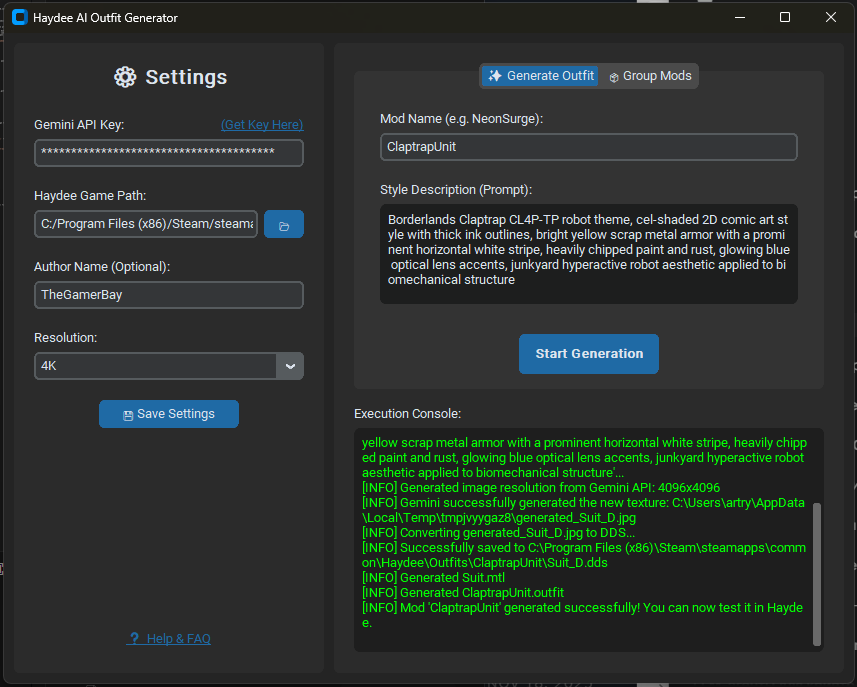
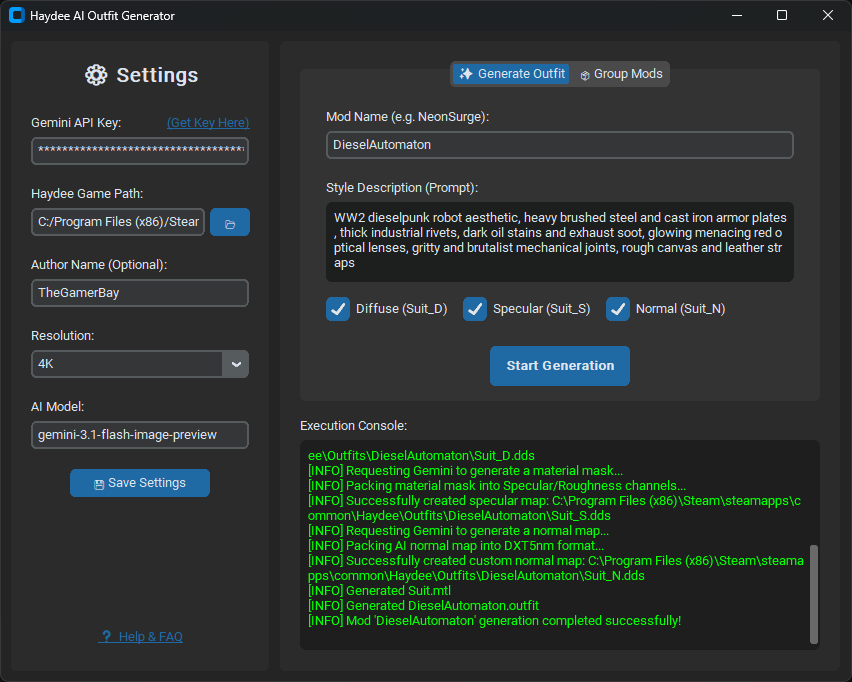
feat(app): enhance texture generation with new model support, custom normal/specular options, and UI improvements
- Add model name management to settings and default to `gemini-3.1-flash-image-preview`
- Introduce checkboxes for generating diffuse, specular, and normal maps
- Improve validation for generation with detailed error messages
- Handle API retries with configurable delays for robustness
- Update `google-genai` client with extended timeout via monkey patch
- Revise UI layout for better readability and functionality

diff --git a/src/app.py b/src/app.py
@@ -13,6 +13,17 @@ from haydee_outfit_gen.image_processor import ImageProcessor
 
 from src.config_manager import ConfigManager
 
+# Monkey-patch google-genai Client to increase the default timeout to 10 minutes (600,000 ms)
+from google import genai
+original_client_init = genai.Client.__init__
+def new_client_init(self, *args, **kwargs):
+    if 'http_options' not in kwargs:
+        kwargs['http_options'] = {'timeout': 600000}
+    original_client_init(self, *args, **kwargs)
+genai.Client.__init__ = new_client_init
+
+import time
+
 ctk.set_appearance_mode("Dark")
 ctk.set_default_color_theme("blue")
 
@@ -134,7 +145,12 @@ class HaydeeGUI(ctk.CTk):
         # Resolution
         ctk.CTkLabel(self.left_frame, text="Resolution:").pack(anchor="w", padx=20)
         self.combo_res = ctk.CTkComboBox(self.left_frame, values=["4K", "2K"])
-        self.combo_res.pack(fill="x", padx=20, pady=(0, 20))
+        self.combo_res.pack(fill="x", padx=20, pady=(0, 15))
+
+        # Model Name
+        ctk.CTkLabel(self.left_frame, text="AI Model:").pack(anchor="w", padx=20)
+        self.entry_model = ctk.CTkEntry(self.left_frame, placeholder_text="gemini-3.1-flash-image-preview")
+        self.entry_model.pack(fill="x", padx=20, pady=(0, 20))
 
         # Save Button
         self.btn_save = ctk.CTkButton(self.left_frame, text="💾 Save Settings", command=self._save_settings)
@@ -180,11 +196,26 @@ class HaydeeGUI(ctk.CTk):
         self.entry_mod_name.grid(row=1, column=0, sticky="ew", padx=20, pady=(0, 15))
 
         ctk.CTkLabel(self.tab_gen, text="Style Description (Prompt):").grid(row=2, column=0, sticky="w", padx=20)
-        self.textbox_style = ctk.CTkTextbox(self.tab_gen, height=100)
-        self.textbox_style.grid(row=3, column=0, sticky="ew", padx=20, pady=(0, 20))
+        self.textbox_style = ctk.CTkTextbox(self.tab_gen, height=80)
+        self.textbox_style.grid(row=3, column=0, sticky="ew", padx=20, pady=(0, 15))
+
+        self.frame_options = ctk.CTkFrame(self.tab_gen, fg_color="transparent")
+        self.frame_options.grid(row=4, column=0, sticky="w", padx=20, pady=(0, 15))
+
+        self.check_gen_d = ctk.CTkCheckBox(self.frame_options, text="Diffuse (Suit_D)")
+        self.check_gen_d.grid(row=0, column=0, padx=(0, 15))
+        self.check_gen_d.select()
+
+        self.check_gen_s = ctk.CTkCheckBox(self.frame_options, text="Specular (Suit_S)")
+        self.check_gen_s.grid(row=0, column=1, padx=(0, 15))
+        self.check_gen_s.select()
+
+        self.check_gen_n = ctk.CTkCheckBox(self.frame_options, text="Normal (Suit_N)")
+        self.check_gen_n.grid(row=0, column=2)
+        self.check_gen_n.select()
 
         self.btn_generate = ctk.CTkButton(self.tab_gen, text="Start Generation", height=40, font=ctk.CTkFont(weight="bold"), command=self._start_generation)
-        self.btn_generate.grid(row=4, column=0, pady=10)
+        self.btn_generate.grid(row=5, column=0, pady=10)
 
     def _build_group_tab(self):
         self.tab_group.grid_columnconfigure(0, weight=1)
@@ -219,12 +250,14 @@ class HaydeeGUI(ctk.CTk):
         self.entry_path.insert(0, self.config_manager.config.get("haydee_path", ""))
         self.entry_author.insert(0, self.config_manager.config.get("author_name", ""))
         self.combo_res.set(self.config_manager.config.get("image_resolution", "4K"))
+        self.entry_model.insert(0, self.config_manager.config.get("model_name", "gemini-3.1-flash-image-preview"))
 
     def _save_settings(self, show_success=True):
         api_key = self.entry_api_key.get().strip()
         haydee_path = self.entry_path.get().strip()
         author = self.entry_author.get().strip()
         res = self.combo_res.get()
+        model = self.entry_model.get().strip() or "gemini-3.1-flash-image-preview"
 
         if not api_key or not haydee_path:
             messagebox.showwarning("Warning", "Please fill in both API Key and Game Path.")
@@ -234,6 +267,7 @@ class HaydeeGUI(ctk.CTk):
         self.config_manager.config["haydee_path"] = haydee_path
         self.config_manager.config["author_name"] = author
         self.config_manager.config["image_resolution"] = res
+        self.config_manager.config["model_name"] = model
         self.config_manager.save()
 
         if show_success:
@@ -260,13 +294,29 @@ class HaydeeGUI(ctk.CTk):
     def _start_generation(self):
         mod_name = self.entry_mod_name.get().strip()
         style = self.textbox_style.get("1.0", "end-1c").strip()
+        
+        gen_d = self.check_gen_d.get() == 1
+        gen_s = self.check_gen_s.get() == 1
+        gen_n = self.check_gen_n.get() == 1
 
-        if not mod_name or not style:
-            messagebox.showerror("Error", "Mod name and style description are required.")
+        if not mod_name:
+            messagebox.showerror("Error", "Mod name is required.")
+            return
+            
+        if gen_d and not style:
+            messagebox.showerror("Error", "Style description is required to generate a new Diffuse texture.")
+            return
+            
+        if not gen_d and not gen_s and not gen_n:
+            messagebox.showinfo("Info", "Nothing to generate. All options are disabled.")
             return
         
         if self._prepare_for_task():
-            threading.Thread(target=self._run_generator_thread, args=(mod_name, style), daemon=True).start()
+            threading.Thread(
+                target=self._run_generator_thread, 
+                args=(mod_name, style, gen_d, gen_s, gen_n), 
+                daemon=True
+            ).start()
 
     def _start_grouping(self):
         multi_name = self.entry_multi_name.get().strip()
@@ -281,40 +331,73 @@ class HaydeeGUI(ctk.CTk):
         if self._prepare_for_task():
             threading.Thread(target=self._run_grouping_thread, args=(multi_name, source_mods, slot_cat, delete_sources), daemon=True).start()
 
-    def _run_generator_thread(self, mod_name, style):
+    def _run_generator_thread(self, mod_name, style, gen_d, gen_s, gen_n):
+        def retry_api_call(func, *args, retries=3, delay=5, **kwargs):
+            for attempt in range(retries):
+                try:
+                    return func(*args, **kwargs)
+                except Exception as e:
+                    if attempt < retries - 1:
+                        self.logger.warning(f"API call failed (Attempt {attempt+1}/{retries}): {e}. Retrying in {delay} seconds...")
+                        time.sleep(delay)
+                    else:
+                        raise e
+
         try:
             api_key = self.config_manager.config["gemini_api_key"]
             haydee_path = Path(self.config_manager.config["haydee_path"])
             author = self.config_manager.config.get("author_name", "")
             res = self.config_manager.config["image_resolution"]
+            model_name = self.config_manager.config.get("model_name", "gemini-3.1-flash-image-preview")
             
             outfits_dir = haydee_path / "Outfits"
             base_dds = outfits_dir / "Haydee" / "Suit_D.dds"
 
-            if not base_dds.exists():
-                raise FileNotFoundError(f"Base texture not found at {base_dds}. Please verify your game path.")
-
             builder = ModBuilder(mod_name, outfits_dir=outfits_dir, author=author if author else None)
-            builder.prepare_directory()
+            builder.prepare_directory(clear_dir=gen_d)
 
             with tempfile.TemporaryDirectory() as temp_dir:
                 temp_path = Path(temp_dir)
                 base_png = temp_path / "base_Suit_D.png"
-                generated_jpg = temp_path / "generated_Suit_D.jpg"
+                generated_d_png = temp_path / "generated_Suit_D.png"
+                generated_mask = temp_path / "material_mask.png"
+                generated_n_png = temp_path / "generated_normal.png"
 
-                ImageProcessor.dds_to_png(base_dds, base_png)
+                client = GeminiModClient(api_key=api_key, image_resolution=res, model_name=model_name)
+                final_d_dds = builder.mod_dir / "Suit_D.dds"
 
-                client = GeminiModClient(api_key=api_key, image_resolution=res)
-                client.generate_texture(base_image_path=base_png, style=style, output_path=generated_jpg)
+                if gen_d:
+                    if not base_dds.exists():
+                        raise FileNotFoundError(f"Base texture not found at {base_dds}. Please verify your game path.")
+                    ImageProcessor.dds_to_png(base_dds, base_png)
+                    retry_api_call(client.generate_texture, base_image_path=base_png, style=style, output_path=generated_d_png)
+                    ImageProcessor.img_to_dds(generated_d_png, final_d_dds, resolution=res)
+                else:
+                    if not final_d_dds.exists():
+                        if gen_s or gen_n:
+                            raise FileNotFoundError(
+                                f"Cannot generate Suit_S or Suit_N because Suit_D generation was skipped and "
+                                f"'{final_d_dds.name}' does not exist in the mod folder from previous runs."
+                            )
+                    else:
+                        if gen_s or gen_n:
+                            ImageProcessor.dds_to_png(final_d_dds, generated_d_png)
 
-                final_dds_path = builder.mod_dir / "Suit_D.dds"
-                ImageProcessor.img_to_dds(generated_jpg, final_dds_path, resolution=res)
+                if gen_s:
+                    retry_api_call(client.generate_material_mask, diffuse_image_path=generated_d_png, output_path=generated_mask)
+                    final_s_dds = builder.mod_dir / "Suit_S.dds"
+                    ImageProcessor.create_specular_map(generated_mask, final_s_dds, resolution=res)
+
+                if gen_n:
+                    retry_api_call(client.generate_normal_map, diffuse_image_path=generated_d_png, output_path=generated_n_png)
+                    final_n_dds = builder.mod_dir / "Suit_N.dds"
+                    ImageProcessor.create_custom_normal_map(generated_n_png, final_n_dds, resolution=res)
 
             builder.generate_mtl_file()
             builder.generate_outfit_file()
             
-            self.logger.info(f"Mod '{mod_name}' generated successfully! You can now test it in Haydee.")
-            self.after(0, lambda: messagebox.showinfo("Done", f"Mod '{mod_name}' generated successfully!"))
+            self.logger.info(f"Mod '{mod_name}' generation completed successfully!")
+            self.after(0, lambda: messagebox.showinfo("Done", f"Mod '{mod_name}' generation completed successfully!"))
             
         except Exception as e:
             self.logger.error(f"Generation failed: {e}")

diff --git a/tests/test_app.py b/tests/test_app.py
@@ -9,7 +9,8 @@ def mock_config_manager():
         "gemini_api_key": "test_key",
         "haydee_path": "C:\\Test\\Path",
         "author_name": "TestAuthor",
-        "image_resolution": "4K"
+        "image_resolution": "4K",
+        "model_name": "test_model_v1"
     }
     
     # When ConfigManager is instantiated, inject our mock config
@@ -41,6 +42,7 @@ def test_app_initialization(app):
     assert app.entry_api_key.get() == "test_key"
     assert app.entry_path.get() == "C:\\Test\\Path"
     assert app.entry_author.get() == "TestAuthor"
+    assert app.entry_model.get() == "test_model_v1"
 
 def test_save_settings_validation_empty(app, mocker):
     """Verify that empty fields trigger a warning dialog."""
@@ -56,7 +58,7 @@ def test_save_settings_validation_empty(app, mocker):
     mock_messagebox.assert_called_once_with("Warning", "Please fill in both API Key and Game Path.")
 
 def test_save_settings_success(app, mocker):
-    """Verify successful saving of settings including author."""
+    """Verify successful saving of settings including author and model_name."""
     mock_messagebox = mocker.patch("src.app.messagebox.showinfo")
     mock_save = mocker.patch.object(app.config_manager, "save")
     
@@ -70,6 +72,9 @@ def test_save_settings_success(app, mocker):
     
     app.entry_author.delete(0, "end")
     app.entry_author.insert(0, "NewAuthor")
+
+    app.entry_model.delete(0, "end")
+    app.entry_model.insert(0, "gemini-4.0-pro")
     
     app._save_settings()
     
@@ -77,22 +82,59 @@ def test_save_settings_success(app, mocker):
     assert mock_save.called
     assert app.config_manager.config["gemini_api_key"] == "new_super_secret_key"
     assert app.config_manager.config["author_name"] == "NewAuthor"
+    assert app.config_manager.config["model_name"] == "gemini-4.0-pro"
     mock_messagebox.assert_called_once_with("Success", "Settings saved successfully!")
 
+def test_start_generation_validation(app, mocker):
+    """Verify validation logic for start_generation with various skip checkboxes."""
+    mock_messagebox_error = mocker.patch("src.app.messagebox.showerror")
+    mock_messagebox_info = mocker.patch("src.app.messagebox.showinfo")
+
+    # Clear mod name
+    app.entry_mod_name.delete(0, "end")
+    app._start_generation()
+    mock_messagebox_error.assert_called_with("Error", "Mod name is required.")
+
+    # Fill mod name
+    app.entry_mod_name.insert(0, "ValidMod")
+
+    # Set all checkboxes to off
+    app.check_gen_d.deselect()
+    app.check_gen_s.deselect()
+    app.check_gen_n.deselect()
+    app._start_generation()
+    mock_messagebox_info.assert_called_with("Info", "Nothing to generate. All options are disabled.")
+
+    # Set gen_d on but style empty
+    app.check_gen_d.select()
+    app.textbox_style.delete("1.0", "end")
+    app._start_generation()
+    mock_messagebox_error.assert_called_with("Error", "Style description is required to generate a new Diffuse texture.")
+
 def test_start_generation_blocks_ui(app, mocker):
-    """Verify that starting generation blocks the UI elements."""
+    """Verify that starting generation blocks the UI elements and passes correct args."""
     mock_thread = mocker.patch("src.app.threading.Thread")
     
     # Fill in required fields for Generation
+    app.entry_mod_name.delete(0, "end")
     app.entry_mod_name.insert(0, "TestMod")
+    app.textbox_style.delete("1.0", "end")
     app.textbox_style.insert("1.0", "Cyberpunk style")
+
+    app.check_gen_d.select()
+    app.check_gen_s.deselect()
+    app.check_gen_n.select()
     
     app._start_generation()
     
+    # Check that thread was started with correct arguments
+    mock_thread.assert_called_once()
+    _, kwargs = mock_thread.call_args
+    assert kwargs['args'] == ("TestMod", "Cyberpunk style", True, False, True)
+
     # Check that the button is disabled
     assert app.btn_generate.cget("state") == "disabled"
     assert app.btn_group.cget("state") == "disabled"
-    assert mock_thread.called
 
 def test_start_grouping_blocks_ui(app, mocker):
     """Verify that starting grouping blocks the UI elements."""

diff --git a/src/config_manager.py b/src/config_manager.py
@@ -12,7 +12,8 @@ class ConfigManager:
             "gemini_api_key": "",
             "haydee_path": "",
             "author_name": "",
-            "image_resolution": "4K"
+            "image_resolution": "4K",
+            "model_name": "gemini-3.1-flash-image-preview"
         }
         self.load()
 
